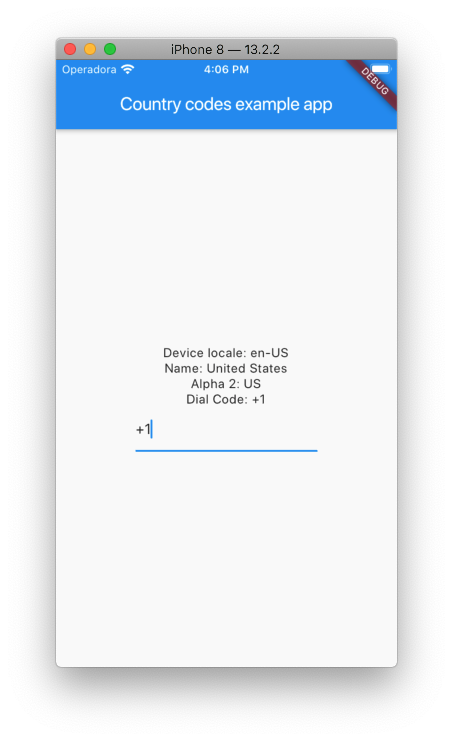
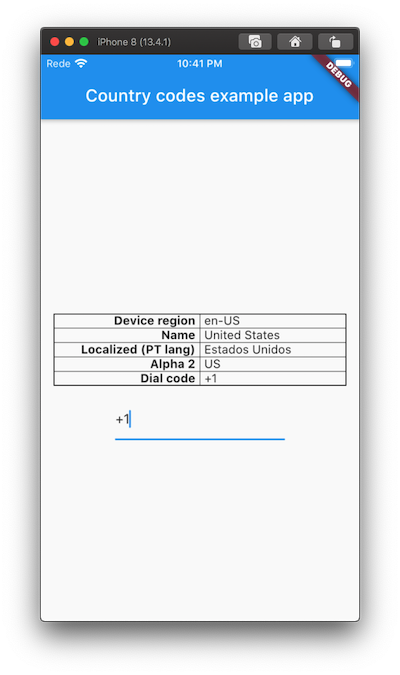
Adds localizedName to CountryDetails
- Updates Android `compileSdkVersion` to 29 and `minSdkVersion` to 21;
- Updates example app;
- Other minor improvements;

Changed region(s): [[0.06, 0.0311, 0.93, 0.9644], [0.18, 0.4667, 0.75, 0.6533]]

diff --git a/lib/src/country_codes.dart b/lib/src/country_codes.dart
@@ -8,6 +8,7 @@ import 'package:flutter/widgets.dart';
 class CountryCodes {
   static const MethodChannel _channel = const MethodChannel('country_codes');
   static Locale _deviceLocale;
+  static Map<String, String> _localizedCountryNames;
 
   static String _resolveLocale(Locale locale) {
     locale ??= _deviceLocale;
@@ -19,13 +20,23 @@ class CountryCodes {
   /// Inits the underlying plugin channel and fetch current's device locale to be ready
   /// to use synchronously when required.
   ///
-  /// If you don't plan to provide a `locale`, you should call and await this
+  /// If you never plan to provide a `locale` directly, you must call and await this
   /// by calling `await CountryCodes.init();` before accessing any other method.
-  static Future<bool> init() async {
-    final List<String> locale =
-        List<String>.from(await _channel.invokeMethod('getLocale'));
+  ///
+  /// Optionally, you may want to provide your [appLocale] to access localized
+  /// country name (eg. if your app is in English, display Italy instead of Italia).
+  ///
+  /// Example:
+  /// ```dart
+  /// CountryCodes.init(Localizations.localeOf(context))
+  /// ```
+  /// This will default to device's language if none is provided.
+  static Future<bool> init([Locale appLocale]) async {
+    final List<dynamic> locale = List<dynamic>.from(
+        await _channel.invokeMethod('getLocale', appLocale?.toLanguageTag()));
     if (locale != null) {
       _deviceLocale = Locale(locale[0], locale[1]);
+      _localizedCountryNames = Map.from(locale[2]);
     }
     return _deviceLocale != null;
   }
@@ -50,33 +61,44 @@ class CountryCodes {
   /// Have in mind that this is different than specifying `supportedLocale`s
   /// on your app.
   /// Exposed properties are the `name`, `alpha2Code`, `alpha3Code` and `dialCode`
-  /// Eg.
-  /// ```
+  ///
+  /// Example:
+  /// ```dart
   /// "name": "United States",
   /// "alpha2Code": "US",
   /// "dial_code": "+1",
   /// ```
   static CountryDetails detailsForLocale([Locale locale]) {
-    return CountryDetails.fromMap(codes[_resolveLocale(locale)]);
+    String code = _resolveLocale(locale);
+    return CountryDetails.fromMap(codes[code], _localizedCountryNames[code]);
   }
 
   /// Returns the ISO 3166-1 `alpha2Code` for the given [locale].
   /// If not provided, device's locale will be used instead.
   /// You can read more about ISO 3166-1 codes [here](https://en.wikipedia.org/wiki/ISO_3166-1)
-  /// Eg. (`US`, `PT`, etc.)
+  ///
+  /// Example: (`US`, `PT`, etc.)
   static String alpha2Code([Locale locale]) {
-    return CountryDetails.fromMap(codes[_resolveLocale(locale)]).alpha2Code;
+    String code = _resolveLocale(locale);
+    return CountryDetails.fromMap(codes[code], _localizedCountryNames[code])
+        .alpha2Code;
   }
 
   /// Returns the `dialCode` for the given [locale] or device's locale, if not provided.
-  /// Eg. (`+1`, `+351`, etc.)
+  ///
+  /// Example: (`+1`, `+351`, etc.)
   static String dialCode([Locale locale]) {
-    return CountryDetails.fromMap(codes[_resolveLocale(locale)]).dialCode;
+    String code = _resolveLocale(locale);
+    return CountryDetails.fromMap(codes[code], _localizedCountryNames[code])
+        .dialCode;
   }
 
-  /// Returns the exended `name` for the given [locale] or device's locale, if not provided.
-  /// Eg. (`United States`, `Portugal`, etc.)
-  static String name([Locale locale]) {
-    return CountryDetails.fromMap(codes[_resolveLocale(locale)]).name;
+  /// Returns the exended `name` for the given [locale] or if not provided, device's locale.
+  ///
+  /// Example: (`United States`, `Portugal`, etc.)
+  static String name({Locale locale}) {
+    String code = _resolveLocale(locale);
+    return CountryDetails.fromMap(codes[code], _localizedCountryNames[code])
+        .name;
   }
 }

diff --git a/example/lib/main.dart b/example/lib/main.dart
@@ -10,6 +10,25 @@ void main() async {
 }
 
 class CountryCodesExampleApp extends StatelessWidget {
+  TableRow _buildEntry({String title, String description}) {
+    return TableRow(
+      children: <Widget>[
+        Padding(
+          padding: const EdgeInsets.only(right: 5.0),
+          child: Text(
+            title,
+            textAlign: TextAlign.end,
+            style: TextStyle(fontWeight: FontWeight.bold),
+          ),
+        ),
+        Padding(
+          padding: const EdgeInsets.only(left: 5.0),
+          child: Text(description),
+        ),
+      ],
+    );
+  }
+
   @override
   Widget build(BuildContext context) {
     return MaterialApp(
@@ -21,23 +40,49 @@ class CountryCodesExampleApp extends StatelessWidget {
           CountryDetails details = CountryCodes.detailsForLocale();
           Locale locale = CountryCodes.getDeviceLocale();
           return Center(
-              child: Column(
-            mainAxisAlignment: MainAxisAlignment.center,
-            children: <Widget>[
-              Text(
-                  'Device locale: ${locale.languageCode}-${locale.countryCode}'),
-              Text('Name: ${details.name}'),
-              Text('Alpha 2: ${details.alpha2Code}'),
-              Text('Dial Code: ${details.dialCode}'),
-              SizedBox(
-                width: 200.0,
-                child: TextFormField(
-                  keyboardType: TextInputType.phone,
-                  inputFormatters: [DialCodeFormatter()],
+            child: Column(
+              mainAxisAlignment: MainAxisAlignment.center,
+              children: <Widget>[
+                Padding(
+                  padding: const EdgeInsets.all(15.0),
+                  child: Table(
+                    border: TableBorder(
+                      horizontalInside: const BorderSide(width: 0.5),
+                      verticalInside: const BorderSide(width: 0.5),
+                      top: const BorderSide(),
+                      bottom: const BorderSide(),
+                      left: const BorderSide(),
+                      right: const BorderSide(),
+                    ),
+                    children: <TableRow>[
+                      _buildEntry(
+                          title: 'Device region',
+                          description:
+                              '${locale.languageCode}-${locale.countryCode}'),
+                      _buildEntry(
+                          title: 'Name', description: '${details.name}'),
+                      _buildEntry(
+                          title: 'Localized (PT lang)',
+                          description: '${details.localizedName}'),
+                      _buildEntry(
+                          title: 'Alpha 2',
+                          description: '${details.alpha2Code}'),
+                      _buildEntry(
+                          title: 'Dial code',
+                          description: '${details.dialCode}'),
+                    ],
+                  ),
                 ),
-              ),
-            ],
-          ));
+                SizedBox(
+                  width: 200.0,
+                  child: TextFormField(
+                    keyboardType: TextInputType.phone,
+                    inputFormatters: [DialCodeFormatter()],
+                  ),
+                ),
+              ],
+            ),
+          );
         }),
       ),
     );

diff --git a/android/src/main/kotlin/com/miguelruivo/flutter/plugin/countrycodes/country_codes/CountryCodesPlugin.kt b/android/src/main/kotlin/com/miguelruivo/flutter/plugin/countrycodes/country_codes/CountryCodesPlugin.kt
@@ -36,12 +36,25 @@ public class CountryCodesPlugin: FlutterPlugin, MethodCallHandler {
 
   override fun onMethodCall(@NonNull call: MethodCall, @NonNull result: Result) {
 
-    when {
-        call.method == "getLocale" -> result.success(listOf(Locale.getDefault().language, Locale.getDefault().country))
-        call.method == "getRegion" -> result.success(Locale.getDefault().country)
-        call.method == "getLanguage" -> result.success(Locale.getDefault().language)
+    when (call.method) {
+        "getLocale" -> result.success(listOf(Locale.getDefault().language, Locale.getDefault().country, getLocalizedCountryNames(call.arguments as String?)))
+        "getRegion" -> result.success(Locale.getDefault().country)
+        "getLanguage" -> result.success(Locale.getDefault().language)
         else -> result.notImplemented()
     }
+  }
+
+  private fun getLocalizedCountryNames(localeTag: String?) : HashMap<String, String> {
+    var localizedCountries: HashMap<String,String> = HashMap()
+
+    val deviceCountry: String = Locale.getDefault().toLanguageTag();
+
+    for (countryCode in Locale.getISOCountries()) {
+      val locale = Locale(localeTag ?: deviceCountry,countryCode)
+      var countryName: String? = locale.getDisplayCountry(Locale.forLanguageTag(localeTag ?: deviceCountry))
+      localizedCountries[countryCode.toUpperCase()] = countryName ?: "";
+    }
+    return localizedCountries
   }
 
   override fun onDetachedFromEngine(@NonNull binding: FlutterPlugin.FlutterPluginBinding) {

diff --git a/lib/src/country_details.dart b/lib/src/country_details.dart
@@ -1,12 +1,37 @@
 class CountryDetails {
+  /// Dial code represents a global phone prefix for the region
+  /// Example: `+1`, `+351`
   final String dialCode;
+
+  /// ISO 3166 alpha 2 code
+  /// Example: `US`, `PT`
   final String alpha2Code;
+
+  /// ISO 3166 alpha 3 code
+  /// Example: `USA`, `PRT`
   final String alpha3Code;
+
+  /// Extended country name in its own language
+  ///
+  /// Examples:
+  /// US : United States
+  /// IT : Italia
+  /// DE : Deutschland
   final String name;
 
-  CountryDetails.fromMap(Map<String, dynamic> data)
+  /// Extended country name based on a region language
+  ///
+  /// Examples for `US`:
+  /// US : United States
+  /// IT : Italy
+  /// DE : Germany
+  final String localizedName;
+
+  CountryDetails.fromMap(Map<String, dynamic> data,
+      [String localizedCountryName])
       : this.name = data['name'],
         this.alpha2Code = data['alpha2Code'],
         this.alpha3Code = data['alpha3Code'],
-        this.dialCode = data['dial_code'];
+        this.dialCode = data['dial_code'],
+        this.localizedName = localizedCountryName;
 }

diff --git a/ios/Classes/SwiftCountryCodesPlugin.swift b/ios/Classes/SwiftCountryCodesPlugin.swift
@@ -18,10 +18,20 @@ public class SwiftCountryCodesPlugin: NSObject, FlutterPlugin {
         result(Locale.current.languageCode)
         break
     case "getLocale":
-        result([Locale.current.languageCode, Locale.current.regionCode])
+        result([Locale.current.languageCode as Any, Locale.current.regionCode as Any, getLocalizedCountryNames(localeTag: call.arguments as? String)])
         break
     default:
         result(FlutterMethodNotImplemented);
     }
   }
+    
+    func getLocalizedCountryNames(localeTag: String?) -> Dictionary<String,String> {
+        var localizedCountries:Dictionary<String,String> = [String: String]()
+    
+        for countryCode in NSLocale.isoCountryCodes {
+            let countryName: String? = NSLocale(localeIdentifier: localeTag ?? Locale.preferredLanguages[0]).displayName(forKey: .countryCode, value: countryCode)
+            localizedCountries[countryCode.uppercased()] = countryName ?? "";
+        }
+        return localizedCountries
+    }
 }

diff --git a/CHANGELOG.md b/CHANGELOG.md
@@ -1,22 +1,28 @@
+## [1.0.0] - 10/05/2020
+
+* Added `localizedName` property to `CountryDetails`. This allows you to display any country name base on a `Locale` language. Must be set when doing `CountryCodes.init(locale)`, defaults to device's language.
+* Updated Android `compileSdkVersion` to 29 and `minSdkVersion` to 21;
+* Updated example app;
+
 ## [0.1.0] - 13/02/2020
 
-* Exposes device `Locale` (language and country code) instead of country only.
+Exposes device `Locale` (language and country code) instead of country only.
 
 ## [0.0.6+2] - 12/02/2020
 
-* Updates `dialCode()` to receive the [locale] optionally instead of explictly `null` in order to retrieve the device's region dial code.
+Updates `dialCode()` to receive the [locale] optionally instead of explictly `null` in order to retrieve the device's region dial code.
 
 ## [0.0.6+1] - 03/02/2020
 
-* Replaces `FutureOr<Locale>` with `Locale` to make it explicitly synchronous when invoking `getDeviceLocale()`
+Replaces `FutureOr<Locale>` with `Locale` to make it explicitly synchronous when invoking `getDeviceLocale()`
 
 ## [0.0.6] - 03/02/2020
 
-* Exposes device's `Locale` through `getDeviceLocale()` method.
+Exposes device's `Locale` through `getDeviceLocale()` method.
 
 ## [0.0.5] - 31/01/2020
 
-* Updates README
+Updates README
 
 ## [0.0.4] - 31/01/2020
 
@@ -25,12 +31,12 @@
 
 ## [0.0.3] - 30/01/2020
 
-* Format
+Format
 
 ## [0.0.2] - 30/01/2020
 
-* Adds license (MIT)
+Adds license (MIT)
 
 ## [0.0.1] - 30/01/2020
 
-* Initial release. Provides access to `DialCodeFormatter` for `TextFormField`s, `alpha2Code`, `dialCode` and `name`.
+Initial release. Provides access to `DialCodeFormatter` for `TextFormField`s, `alpha2Code`, `dialCode` and `name`.

diff --git a/README.md b/README.md
@@ -20,7 +20,7 @@ This will allow you to fetch the region of the underlying platform and display t
 
 Assuming an **en-US** region based revice.
 ```
-await CountryCodes.init();
+await CountryCodes.init(); // Optionally, you may provide a `Locale` to get countrie's localizadName
 
 final Locale deviceLocale = CountryCodes.getDeviceLocale();
 print(deviceLocale.languageCode); // Displays en
@@ -30,6 +30,7 @@ final CountryDetails details = CountryDetails.detailsForLocale();
 print(details.alpha2Code); // Displays alpha2Code, for example US.
 print(details.dialCode); // Displays the dial code, for example +1.
 print(details.name); // Displays the extended name, for example United States.
+print(details.localizedName); // Displays the extended name based on device's language (or other, if provided on init)
 ```
 ### 2. Use a custom `Locale`
 This will use the provided `Locale`, which may not be related to the device's region but instead to the app supported languages.
